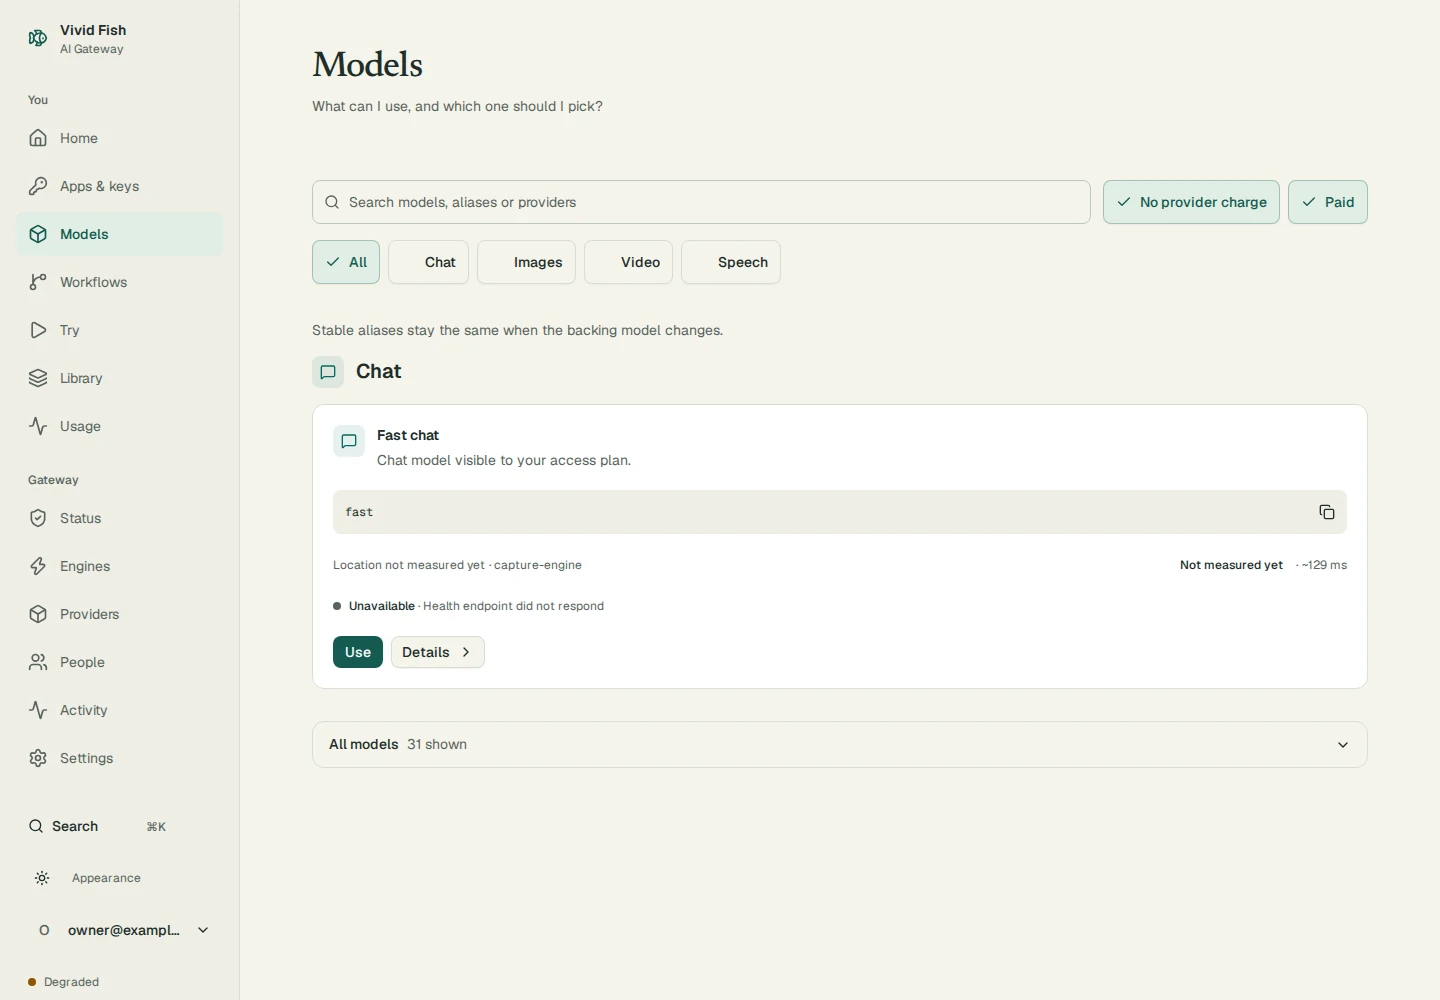
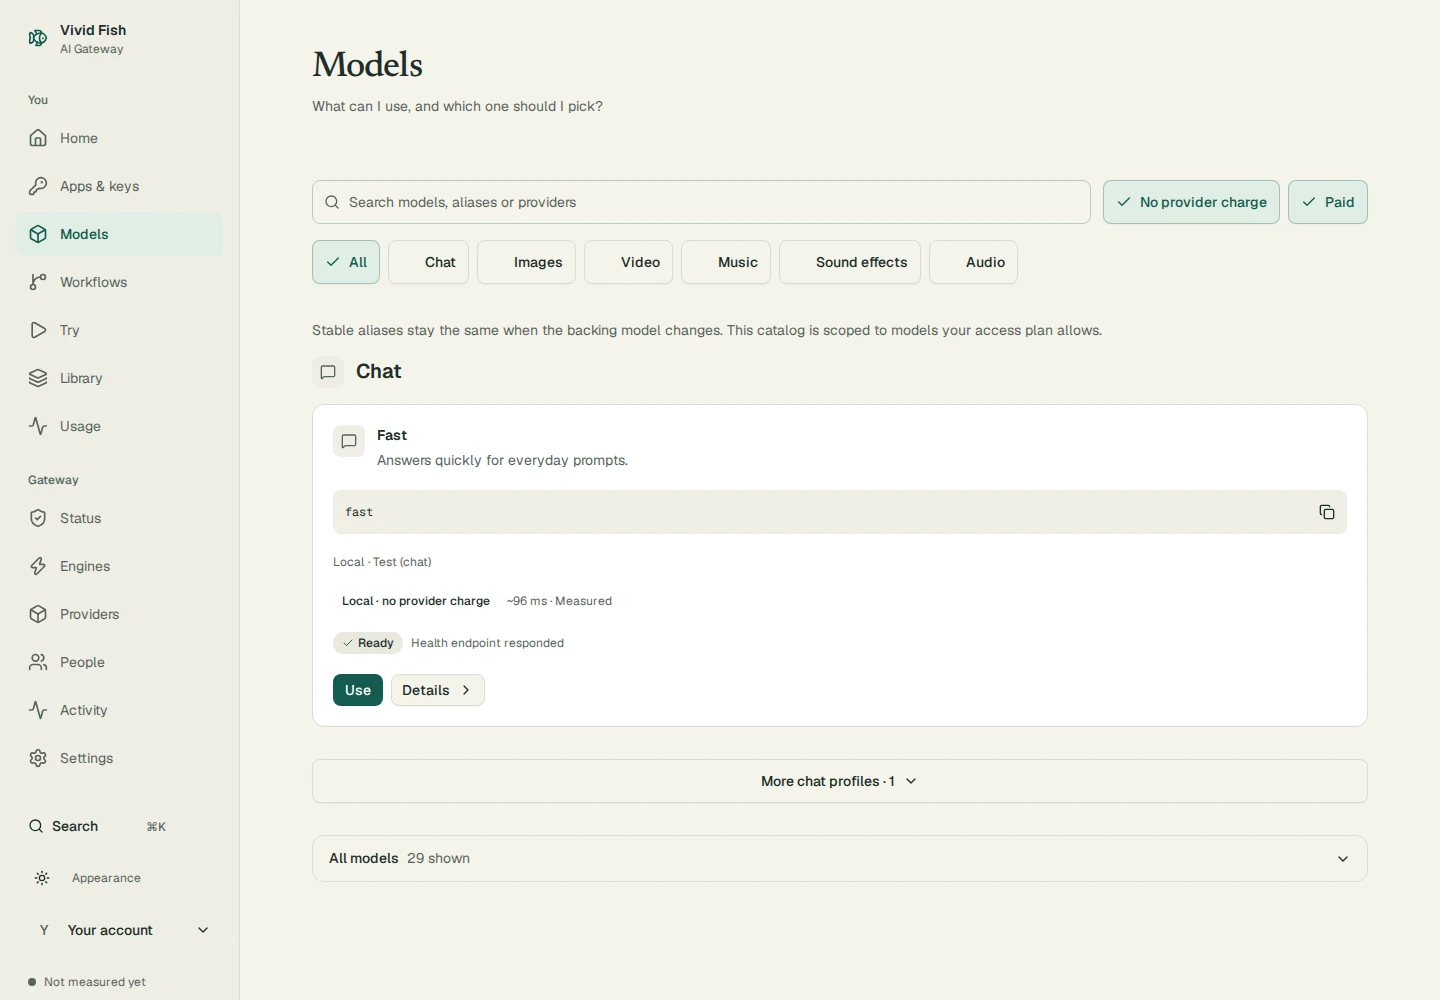
Refresh README and product screenshots from seeded gateway

diff --git a/docs/assets/screenshots/README.md b/docs/assets/screenshots/README.md
@@ -4,7 +4,16 @@ These are real pages from the current static UI export, served by a throwaway ga
 
 The screenshots use light mode, a 1440 × 1000 viewport and a device scale of 1. Each WebP is under 300 KB. Home shows app connection settings, Models shows the current catalog, and People shows the example owner. Missing health and monthly usage measurements remain visible; no response or telemetry is fabricated for the capture.
 
+The same capture run also writes Home, Models, Workflows, Try, Providers, Library, Status and People in both light and dark mode to `web/test-results/product/`. These product-site images use a 1440 × 960 viewport and the same seeded gateway. Library is empty because the seed creates no media; Providers has no configured paid provider. Try shows its initial request panel. No browser API responses are replaced for these captures.
+
 Reproduce from a dependency-installed checkout with the UI built. Run `web/e2e/seed-review.mjs` from `web/`, passing `node ../docs/assets/screenshots/capture.mjs` as its review command. Set `UI_E2E_PORT` to an unused port in 18000–18998. The capture script requires the worktree's `venv/bin/python` with Pillow to compress the images. The supervisor stops both test processes and removes temporary gateway state after capture.
+
+```sh
+cd web
+UI_E2E_PORT=18380 node e2e/seed-review.mjs node ../docs/assets/screenshots/capture.mjs
+```
+
+The capture checks each page's HTTP status, settled loading state, heading, horizontal fit and compressed image size before completing.
 
 ## Tour
 
